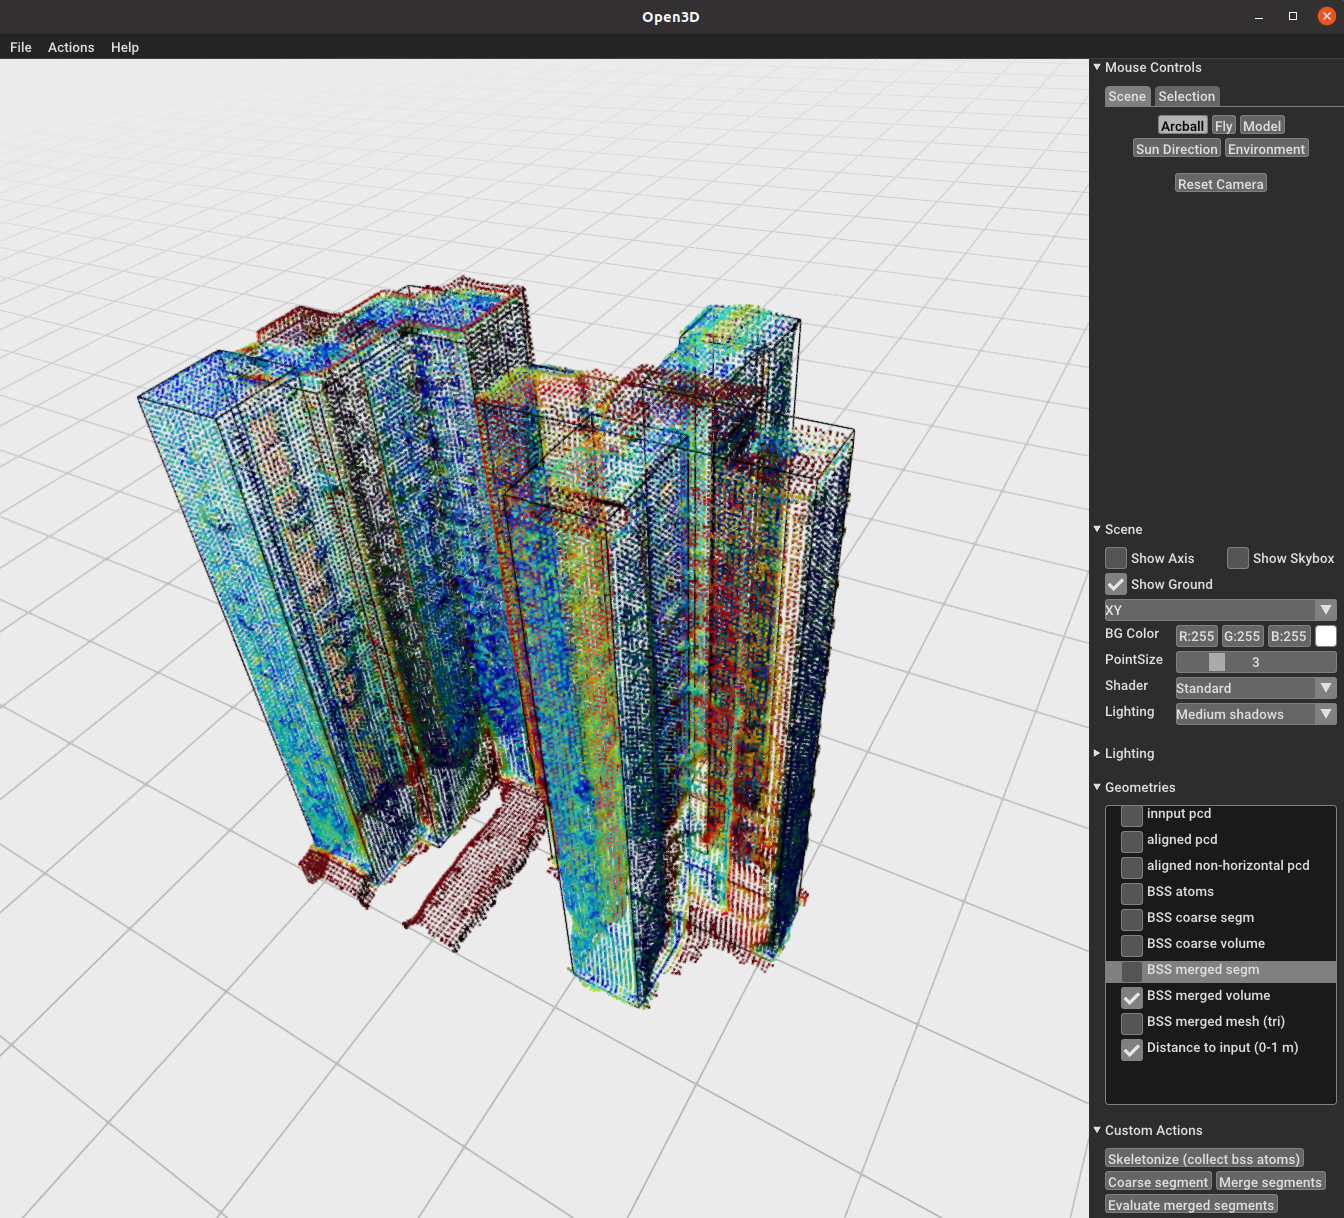
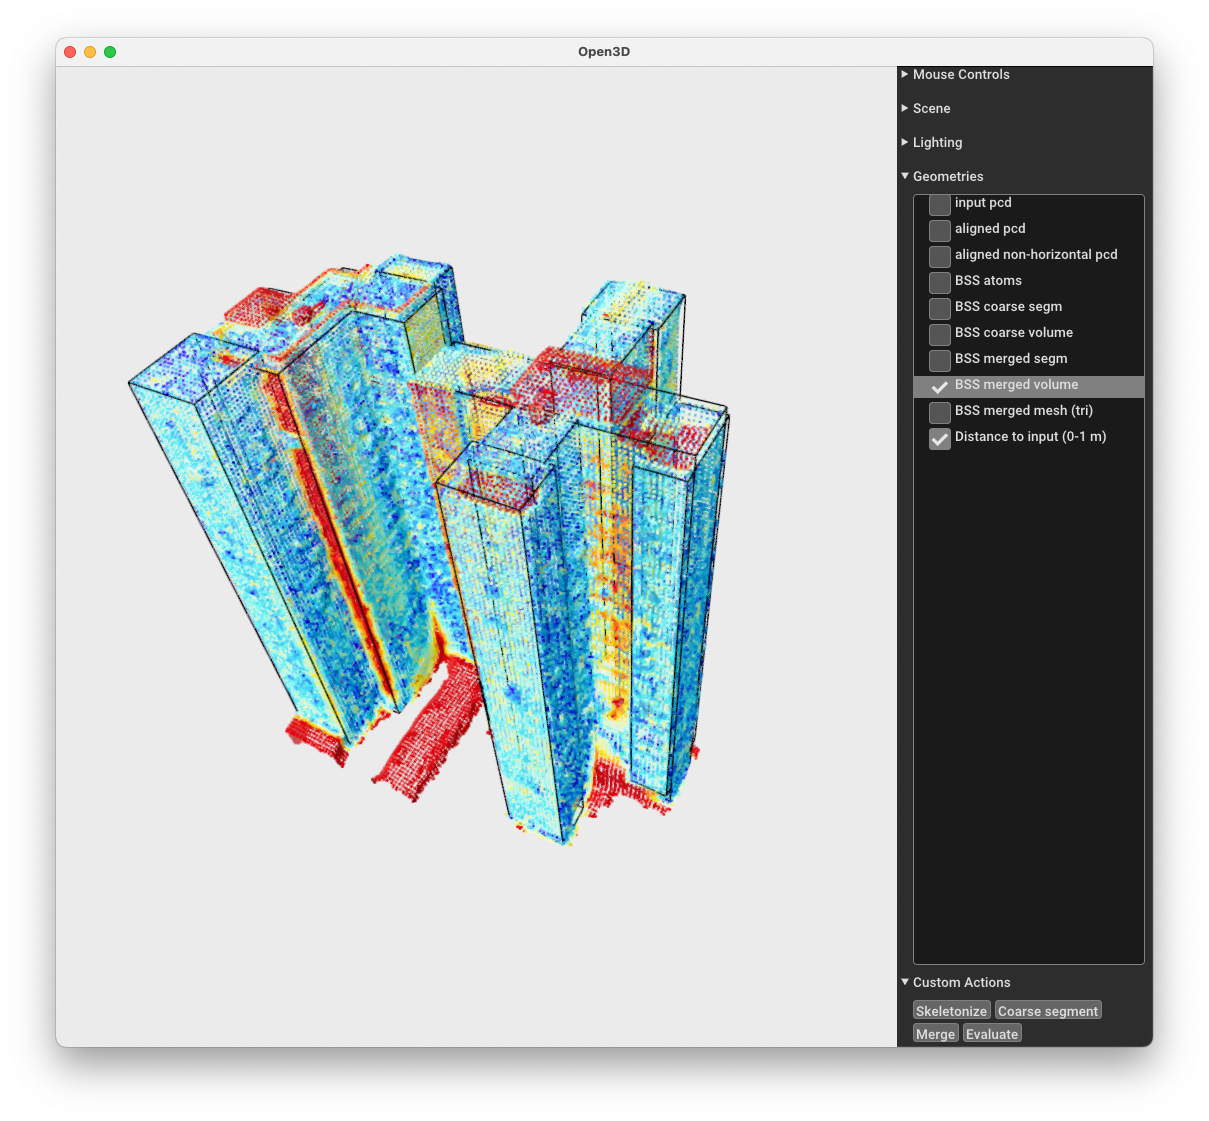
update

diff --git a/main.py b/main.py
@@ -10,7 +10,7 @@ import json
 import coarse_segmentation as cs
 import platform
 
-if platform.system() == "Darwin:
+if platform.system() == "Darwin":
     sobss_lib = ctypes.cdll.LoadLibrary("build/libsobss.dylib")
 elif platform.system() == "Linux":
     sobss_lib = ctypes.cdll.LoadLibrary("build/libsobss.so")
@@ -69,6 +69,7 @@ def parse_bss_segm(path):
     bss_segm_wf = o3d.geometry.LineSet()
     bss_segm_wf.points = o3d.utility.Vector3dVector(segm_coords.reshape(-1, 3))
     bss_segm_wf.lines = o3d.utility.Vector2iVector(segm_edges.reshape(-1, 2))
+    bss_segm_wf.colors = o3d.utility.Vector3dVector(np.array([[1, 0.253, 1]] * num * 4))
     
     #  vol
     vol_coords = np.zeros((num, 8, 3))
@@ -119,20 +120,21 @@ def parse_bss_segm(path):
     return bss_segm_wf, bss_segm_volume_wf
 
 
-def initialize_working_folder(working_folder):
+def initialize_working_folder(
+        working_folder, vs = 0.25, p = 2.0, nmi = np.pi/9, sigma = 2.0, lmbd = 2.0):
     if os.path.exists(working_folder):
         shutil.rmtree(working_folder)
     os.makedirs(working_folder)
 
     params = {
-        'voxel_size': 0.25, 
-        'ps': 2.0,
-        'dxi': 2.0,
-        'xi': 2.0,
-        'zci': 2.0,
-        'nmi': np.pi/9,
-        'sigma': 2.0,
-        'lambda': 2.0}
+        'voxel_size': vs, 
+        'ps': p,
+        'dxi': p / 2,
+        'xi': p,
+        'zci': p,
+        'nmi': nmi,
+        'sigma': sigma,
+        'lambda': lmbd}
 
     conf_path = os.path.join(working_folder, "config.json")
     with open(conf_path, "w") as f:
@@ -141,7 +143,7 @@ def initialize_working_folder(working_folder):
 
 def actions(pcd_path, working_folder):
     input_pcd = o3d.io.read_point_cloud(pcd_path)
-    INPUT_NAME = "innput pcd"
+    INPUT_NAME = "input pcd"
     ALIGN_NAME = "aligned pcd"
     NH_NAME = "aligned non-horizontal pcd"
     BSS_ATOM_NAME = "BSS atoms"
@@ -173,8 +175,10 @@ def actions(pcd_path, working_folder):
         bss_atom_pts = np.loadtxt(bss_atom_path)[:,:3]
         bss_atom = o3d.geometry.PointCloud()
         bss_atom.points = o3d.utility.Vector3dVector(bss_atom_pts)
+        bss_atom.colors = o3d.utility.Vector3dVector(np.array([[1, 0.253, 1]] * bss_atom_pts.shape[0]))
 
         o3dvis.add_geometry({"name": BSS_ATOM_NAME, "geometry": bss_atom})
+        o3dvis.show_geometry(INPUT_NAME, False)
         o3dvis.setup_camera(45, np.array([0,0,0]), np.array([0, 0, 30]), np.array([0,0,1]))
         o3dvis.post_redraw()
         # view_ctl = o3dvis.get_view_control()
@@ -186,7 +190,8 @@ def actions(pcd_path, working_folder):
 
         bss_coarse_segm_path = os.path.join(working_folder, "bss_coarse_segm.txt")
         bss_coarse_segm, bss_coarse_volume = parse_bss_segm(bss_coarse_segm_path)
-
+        o3dvis.show_geometry(ALIGN_NAME, False)
+        o3dvis.show_geometry(NH_NAME, False)
         o3dvis.add_geometry({"name": BSS_COARSE_SEGM_NAME, "geometry": bss_coarse_segm})
         o3dvis.add_geometry({"name": BSS_COARSE_VOLUME_NAME, "geometry": bss_coarse_volume})
     
@@ -199,6 +204,8 @@ def actions(pcd_path, working_folder):
         bss_merged_segm_path = os.path.join(working_folder, "bss_merged_segm.txt")
         bss_merged_segm, bss_merged_volume = parse_bss_segm(bss_merged_segm_path)
 
+        o3dvis.show_geometry(BSS_COARSE_SEGM_NAME, False)
+        o3dvis.show_geometry(BSS_COARSE_VOLUME_NAME, False)
         o3dvis.add_geometry({"name": BSS_MERGED_SEGM_NAME, "geometry": bss_merged_segm})
         o3dvis.add_geometry({"name": BSS_MERGED_VOLUME_NAME, "geometry": bss_merged_volume})
 
@@ -211,6 +218,7 @@ def actions(pcd_path, working_folder):
         if evaluate.distance_from_pcd_to_trimesh(working_folder, truncation=1.0):
             evaluate_pcd_path = os.path.join(working_folder, "evaluated.ply")
             evaluated_pcd = o3d.io.read_point_cloud(evaluate_pcd_path)
+            o3dvis.show_geometry(BSS_MERGED_TRI_MESH_NAME, False)
             o3dvis.add_geometry({"name": DISTANCE_TO_ALIGN_NAME, "geometry": evaluated_pcd})
         else:
             print("failed to evaluate")
@@ -219,18 +227,29 @@ def actions(pcd_path, working_folder):
         "name": INPUT_NAME,
         "geometry": input_pcd}
         ],
-        actions=[("Skeletonize", skeletonize),
-                ("Coarse segment", coarse_segment),
-                ("Merge", merge_segments),
-                ("Evaluate", evaluate_merged_segments)
+        actions=[("skeletonize", skeletonize),
+                ("coarse segment", coarse_segment),
+                ("merge", merge_segments),
+                ("evaluate", evaluate_merged_segments)
                 ])
 
+# main
 parser = argparse.ArgumentParser()
+# set input and working folder
 parser.add_argument('-i', type=str, required=True, help="input point cloud with normals (.ply)")
 parser.add_argument('-w', type=str, required=True, help="working folder")
+
+# set parameters
+parser.add_argument('-v', type=float, default=0.25, help="voxel size in skeletonization")
+parser.add_argument('-p', type=float, default=2.0, help="distance interval to group BSS atoms in coarse segmentation")
+parser.add_argument('-n', type=float, default=np.pi/9, help="angular interval to group BSS atoms in coarse segmentation")
+parser.add_argument('-s', type=float, default=2.0, help="truncate distance in merging")
+parser.add_argument('-l', type=float, default=2.0, help="weighting factor in merging")
+
 args = parser.parse_args()
 
-initialize_working_folder(args.w)
+initialize_working_folder(
+    args.w, vs = args.v, p = args.p, nmi = args.n, sigma = args.s, lmbd = args.l)
 
 actions(args.i, args.w)
 

diff --git a/README.md b/README.md
@@ -28,14 +28,23 @@ cmake ..
 make
 ```
 ## Run the gui
+- Set the path to the input point cloud, a directory to save the intermediates and final results, and parameters (optional). 
 ```
 cd ../
-python main.py -i <path to the input point cloud *.ply> -w <directory for saving the results>
+python main.py \
+-i <path to the input point cloud *.ply [required]> \
+-w <directory of the working folder (will be cleared before running) [required]> \
+-v <voxel size in `skeletonizing` [optional]> \
+-p <distance interval to group BSS atoms in `coarse segmentation` [optional]> \
+-n <angular interval to group BSS atoms in `coarse segmentation` [optional]> \
+-s <truncated distance in `merging` [optional]> \
+-l <factor weighting the compactness and accuracy in `merging` [optional]> 
 ```
-click the buttons `skeletonize`->`coarse segment`-> `merge`->`evaluate`. Results will be shown in the open3d window.
+- Click the buttons `skeletonize`->`coarse segment`-> `merge`->`evaluate`. Results will be shown in the open3d window.
 ![gui](gui.png)
-## Tested OS
-- Ubuntu 20.04 LTS.
+## OS tested on
+- Ubuntu 20.04 LTS
+- MacOS 14.1.1 M1
 
 # Test data and results
 Data and results can be downloaded at [OneDrive](https://connecthkuhk-my.sharepoint.com/:f:/g/personal/yijiewu_connect_hku_hk/Ej77MEfWVCtLrJVM-27fO40Brt0B5MLBiAErMaX3p0M3YQ?e=2cHrAg): 
@@ -43,13 +52,7 @@ Data and results can be downloaded at [OneDrive](https://connecthkuhk-my.sharepo
 - Results: Reconstructed results are in `2-union_tri(results)`. 
 - Evaluation: Inputs colorized in terms of the distances to the results are in `3-r2s(evaluation)`.
 
-# TODO
-- [ ] clean the code
-- [x] make the interface more user-friendly  
-    - [x] call the cpp code in python
-    - [x] update the results and tune the parameters in one open3d window (python)
-
 # Contacts
 
 - Wu, Y.: [yijiewu@connect.hku.hk](mailto:yijiewu@connect.hku.hk?subject=[GitHub]sobss)
-- Xue, F.: [xuef@hku.hk](mailto:xuef@hku.hk?subject=[GitHub]sobss), [frankxue.com](//frankxue.com/)
+- Xue, F.: [xuef@hku.hk](mailto:xuef@hku.hk?subject=[GitHub]sobss), [frankxue.com](https://frankxue.com/)
